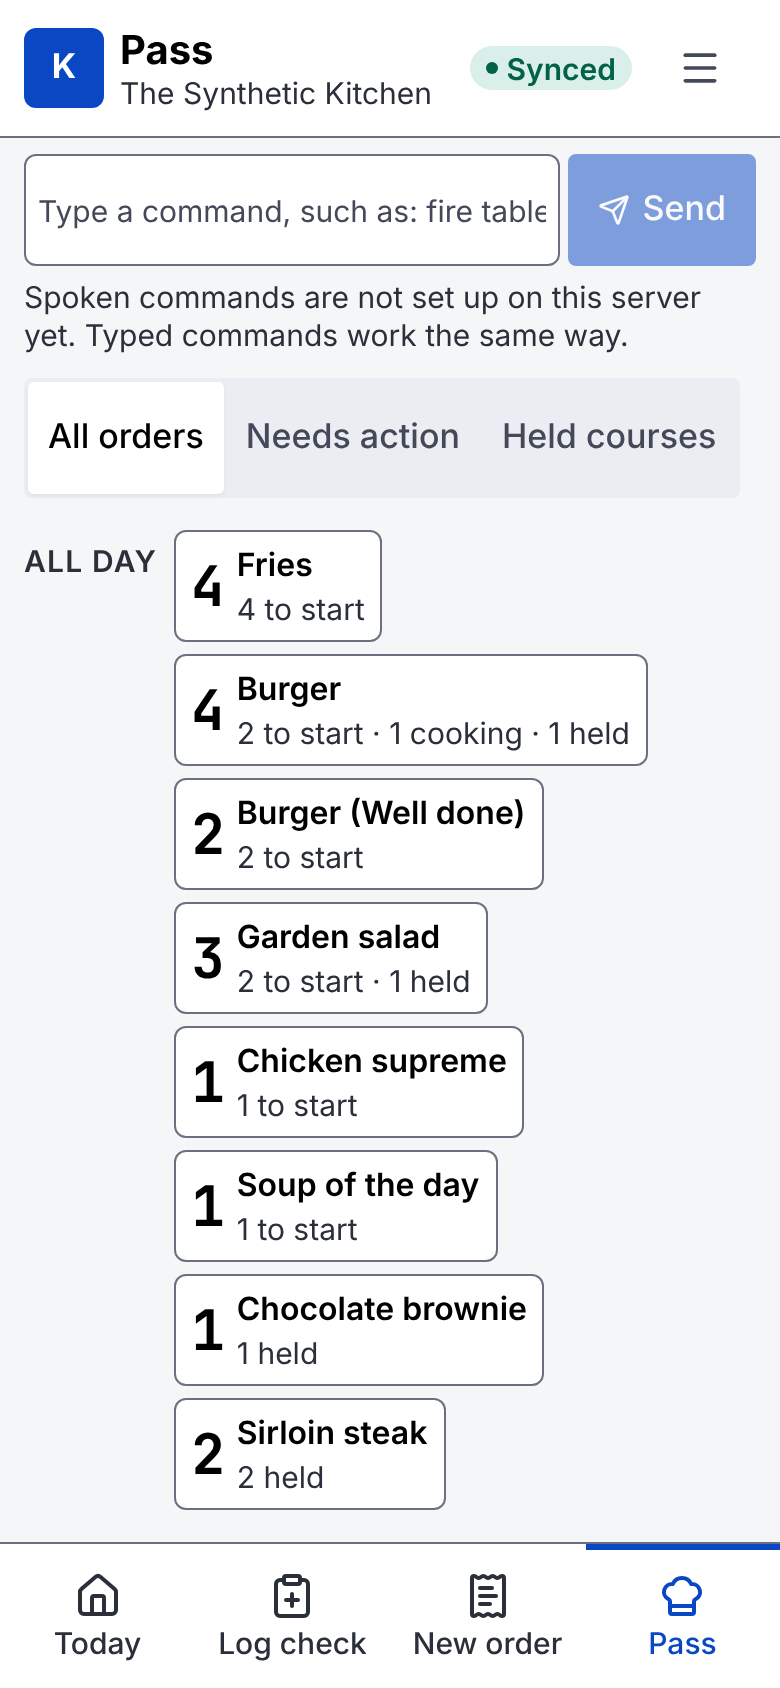
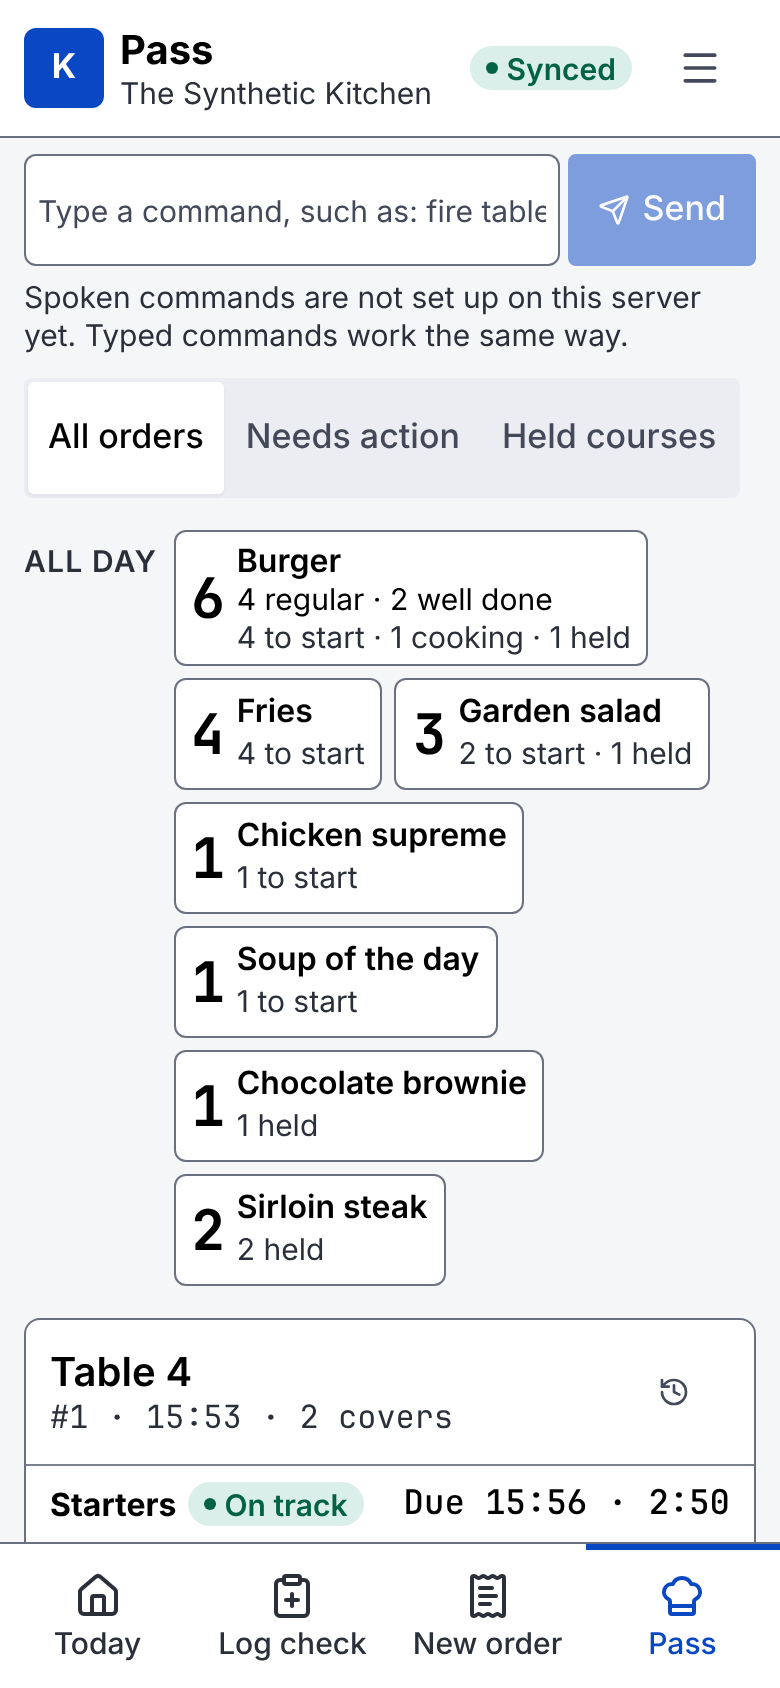
All day: one count per dish, with its variations underneath
The all-day strip now counts each dish once ("5 Burger") and lists its
variations in smaller writing below ("3 regular · 1 well done · 1 well
done, no onion"), then where they are ("2 to start · 3 cooking"). An
item with a note counts as its own variation. Tapping a dish shows every
ticket with it, whatever the variation. "Start N" names the variation
the scheduler wants started together ("Start 3 regular").

Claude-Session: https://claude.ai/code/session_01XnYPVejnixURvd7u6s4zNh

diff --git a/frontend/src/lib/tickets.ts b/frontend/src/lib/tickets.ts
@@ -79,8 +79,18 @@ export function stationTickets(view: KitchenView, stationId: string): Ticket[] {
   return out.sort((a, b) => a.nextAt - b.nextAt || a.order.number - b.order.number);
 }
 
-/** AllDay is how many of one dish (with its modifiers) are in the kitchen. */
+/** Variant is one way a dish is ordered: "regular", "well done", "well done, no onion". */
+export interface Variant {
+  label: string;
+  /** fired and not yet ready */
+  active: number;
+  held: number;
+  ready: number;
+}
+
+/** AllDay is how many of one dish are in the kitchen, with its variants. */
 export interface AllDay {
+  /** the dish ID */
   key: string;
   name: string;
   /** held: in courses not fired yet */
@@ -91,8 +101,19 @@ export interface AllDay {
   cooking: number;
   /** at the pass */
   ready: number;
-  /** items the scheduler says to start now, together */
+  /** items the scheduler says to start now */
   startNow: string[];
+  /** the variant those items share, or "" when they differ */
+  startNowVariant: string;
+  /** the ways it is ordered, regular first, then the most common */
+  variants: Variant[];
+}
+
+/** variantLabel names how an item differs from the plain dish. */
+export function variantLabel(it: Pick<OrderItem, "modifiers" | "notes">): string {
+  const parts = [...(it.modifiers ?? []).map((m) => m.toLowerCase())];
+  if (it.notes?.trim()) parts.push(it.notes.trim());
+  return parts.length ? parts.join(", ") : "regular";
 }
 
 /** allDay counts every dish not yet served, for one station or the whole kitchen. */
@@ -107,18 +128,37 @@ export function allDay(view: KitchenView, stationId?: string): AllDay[] {
     for (const it of o.items) {
       if (stationId && it.station_id !== stationId) continue;
       if (it.state === "served" || it.state === "voided") continue;
-      const key = `${it.dish_id}|${(it.modifiers ?? []).join(",")}`;
-      let r = rows.get(key);
+      let r = rows.get(it.dish_id);
       if (!r) {
-        r = { key, name: itemName(it), held: 0, toStart: 0, cooking: 0, ready: 0, startNow: [] };
-        rows.set(key, r);
+        r = { key: it.dish_id, name: it.dish_name, held: 0, toStart: 0, cooking: 0, ready: 0, startNow: [], startNowVariant: "", variants: [] };
+        rows.set(it.dish_id, r);
       }
-      if (it.state === "held") r.held++;
-      else if (it.state === "fired") r.toStart++;
-      else if (COOKING.has(it.state)) r.cooking++;
-      else if (it.state === "ready") r.ready++;
-      if (now.has(it.id)) r.startNow.push(it.id);
+      const label = variantLabel(it);
+      let v = r.variants.find((x) => x.label === label);
+      if (!v) {
+        v = { label, active: 0, held: 0, ready: 0 };
+        r.variants.push(v);
+      }
+      if (it.state === "held") {
+        r.held++;
+        v.held++;
+      } else if (it.state === "ready") {
+        r.ready++;
+        v.ready++;
+      } else {
+        if (it.state === "fired") r.toStart++;
+        else if (COOKING.has(it.state)) r.cooking++;
+        v.active++;
+      }
+      if (now.has(it.id)) {
+        r.startNowVariant = r.startNow.length === 0 || r.startNowVariant === label ? label : "";
+        r.startNow.push(it.id);
+      }
     }
+  }
+  for (const r of rows.values()) {
+    const n = (v: Variant) => v.active + v.held + v.ready;
+    r.variants.sort((a, b) => (a.label === "regular" ? -1 : b.label === "regular" ? 1 : n(b) - n(a) || a.label.localeCompare(b.label)));
   }
   return [...rows.values()].sort((a, b) => active(b) - active(a) || a.name.localeCompare(b.name));
 }
@@ -128,9 +168,9 @@ export function active(r: AllDay): number {
   return r.toStart + r.cooking;
 }
 
-/** lineKey is the all-day key of an item, to filter tickets by dish. */
-export function lineKey(it: OrderItem): string {
-  return `${it.dish_id}|${(it.modifiers ?? []).join(",")}`;
+/** lineKey is the all-day key of an item (its dish), to filter tickets by dish. */
+export function lineKey(it: Pick<OrderItem, "dish_id">): string {
+  return it.dish_id;
 }
 
 /** Done is an item a station finished recently, for Undo. */

diff --git a/frontend/src/components/AllDayStrip.svelte b/frontend/src/components/AllDayStrip.svelte
@@ -17,6 +17,15 @@
 
   const shown = $derived(rows.filter((r) => active(r) + r.ready + (showHeld ? r.held : 0) > 0));
 
+  /** variants says how the dish is ordered, counted the same way as the big number. */
+  function variants(r: AllDay): string {
+    const useActive = active(r) > 0 || (showHeld && r.held > 0);
+    const n = (v: AllDay["variants"][number]) => (useActive ? v.active + (showHeld ? v.held : 0) : v.ready);
+    const shown = r.variants.filter((v) => n(v) > 0);
+    if (shown.length < 2 && shown[0]?.label === "regular") return "";
+    return shown.map((v) => `${n(v)} ${v.label}`).join(" · ");
+  }
+
   function parts(r: AllDay): string {
     const p: string[] = [];
     if (r.toStart) p.push(`${r.toStart} to start`);
@@ -42,10 +51,11 @@
           >
             <span class="count num">{active(r) + (showHeld ? r.held : 0) || r.ready}</span>
             <span class="name">{r.name}</span>
+            {#if variants(r)}<span class="variants">{variants(r)}</span>{/if}
             <span class="parts">{parts(r)}</span>
           </button>
           {#if onstart && r.startNow.length > 1}
-            <Button tone="success" surface="solid" label={`Start ${r.startNow.length}`} disabled={busy} onclick={() => onstart(r)} />
+            <Button tone="success" surface="solid" label={`Start ${r.startNow.length}${r.startNowVariant && r.variants.length > 1 ? ` ${r.startNowVariant}` : ""}`} disabled={busy} onclick={() => onstart(r)} />
           {/if}
         </div>
       {/each}
@@ -81,7 +91,7 @@
   .pick {
     display: grid;
     grid-template-columns: auto 1fr;
-    grid-template-rows: auto auto;
+    grid-template-rows: auto;
     column-gap: var(--space-3);
     align-items: center;
     min-height: max(44px, var(--kit-control-height, 0px));
@@ -99,14 +109,21 @@
     box-shadow: inset 0 0 0 1px var(--accent-blue);
   }
   .count {
-    grid-row: span 2;
+    grid-row: 1 / span 3;
     font-size: var(--font-size-2xl);
     font-weight: var(--font-weight-bold);
   }
   .name {
+    grid-column: 2;
     font-weight: var(--font-weight-semibold);
   }
+  .variants {
+    grid-column: 2;
+    font-size: var(--font-size-sm);
+    color: var(--text-primary);
+  }
   .parts {
+    grid-column: 2;
     font-size: var(--font-size-sm);
     color: var(--text-secondary);
   }

diff --git a/frontend/src/lib/tickets.test.ts b/frontend/src/lib/tickets.test.ts
@@ -1,6 +1,6 @@
 import { expect, test } from "bun:test";
 import type { KitchenView } from "./api";
-import { active, allDay, lineKey, recentlyDone, stationTickets, stepBack } from "./tickets";
+import { active, allDay, lineKey, recentlyDone, stationTickets, stepBack, variantLabel } from "./tickets";
 
 const MIN = 60e9; // a minute in nanoseconds, as timings arrive
 
@@ -76,15 +76,25 @@ test("station tickets: one per fired course with work, soonest first", () => {
   expect(stationTickets(view, "fryer").map((x) => x.order.table)).toEqual(["4"]);
 });
 
-test("all day counts dishes by state, with what to start now", () => {
+test("all day counts each dish once, with its variants", () => {
   const rows = allDay(view, "grill");
-  expect(rows.map((r) => r.name)).toEqual(["Burger", "Burger (Well done)"]);
-  expect(rows[0]).toMatchObject({ held: 1, toStart: 1, cooking: 1, ready: 1, startNow: ["a"] });
-  expect(rows[1]).toMatchObject({ toStart: 1, ready: 0, startNow: [] });
-  expect(active(rows[0]!)).toBe(2);
+  expect(rows.map((r) => r.name)).toEqual(["Burger"]);
+  expect(rows[0]).toMatchObject({ key: "d-burger", held: 1, toStart: 2, cooking: 1, ready: 1, startNow: ["a"], startNowVariant: "regular" });
+  expect(active(rows[0]!)).toBe(3);
+  expect(rows[0]!.variants).toEqual([
+    { label: "regular", active: 2, held: 1, ready: 1 },
+    { label: "well done", active: 1, held: 0, ready: 0 },
+  ]);
   const kitchen = allDay(view);
   expect(kitchen.map((r) => r.name)).toContain("Fries");
-  expect(lineKey(view.orders[1]!.items[0]!)).toBe("d-burger|Well done");
+  expect(lineKey(view.orders[1]!.items[0]!)).toBe("d-burger");
+});
+
+test("variant labels", () => {
+  expect(variantLabel({ modifiers: [], notes: "" })).toBe("regular");
+  expect(variantLabel({ modifiers: ["Well done"] })).toBe("well done");
+  expect(variantLabel({ modifiers: ["Well done"], notes: "no onion" })).toBe("well done, no onion");
+  expect(variantLabel({ modifiers: [], notes: "no bun, gluten free" })).toBe("no bun, gluten free");
 });
 
 test("recently done and undo", () => {

diff --git a/docs/screens.md b/docs/screens.md
@@ -55,7 +55,7 @@ How the kitchen side works, and how the scheduler decides, is in [kitchen.md](ki
 Every open order as a card, for the head chef or expo:
 
 - **Figures**: open orders, and how many fired courses are on track, at risk, late, or ready to serve, and how many courses are held.
-- **All day**: every dish not yet served, across the kitchen: to start, cooking, ready and held. Tap a dish to show only the orders with it.
+- **All day**: every dish not yet served, across the kitchen, with its variations (regular, well done, notes) and how many are to start, cooking, ready and held. Tap a dish to show only the orders with it.
 - **Show**: all orders, only those that need action (at risk, late or ready), or those with held courses.
 - Each card's heading is the order's name if it has one (with the table or takeaway number under it), otherwise its table or takeaway number. It shows the ticket number, time entered, covers, notes, a **Square** chip for orders from the till, and an **Allergy** chip and red edge when flagged. Each course shows its state and the scheduler's status (on track, at risk, late, ready) with the reason, the target time with a countdown, and its items grouped as "2× Burger (Well done)" with their state.
 - Head chefs and managers get the buttons: **Fire** a held course; **Serve** a course once every item is ready; **Change time** (a new target, with a reason for the log); **Hold again** on a fired course while nothing in it has started; **Mark ready** once every item in a course has been started, when the plates are at the pass; **Urgent**; and **Close order** once everything is served or voided. Other staff see the same cards without buttons.
@@ -65,7 +65,7 @@ Every open order as a card, for the head chef or expo:
 
 Pick a station. Its screen has three parts:
 
-- **All day**: how many of each dish the station has in hand, such as "3 Burger: 2 to start, 1 cooking". Tap a dish to show only the tickets with it (and again to show them all). When the scheduler says to start several of a dish together, for different tables, **Start 3** starts them in one tap.
+- **All day**: how many of each dish the station has in hand, counted once per dish, with its variations in small writing underneath and where they are: "5 Burger · 3 regular · 1 well done · 1 well done, no onion · 2 to start, 3 cooking". An item with a note counts as its own variation. Tap a dish to show only the tickets with it (and again to show them all). When the scheduler says to start several together, for different tables, **Start 3 regular** starts them in one tap.
 - **Tickets**: one per order and course with work for this station, the one that needs a hand soonest first. The heading is the order's name, or its table or takeaway number, with the course, the time since it was fired, and its status (on track, at risk, late) as a coloured top edge and a chip. Each item is its own line with its own button: **Start**, **Done cooking**, **Done resting** or **Ready**. A line says **Start now**, **Start 18:42**, or how long is left on what it is doing (red once overdue). The i button shows why the scheduler chose that time. Items already ready are struck through until the whole ticket is done. Allergies show in red at the top.
 - **Recently done**: items made ready here in the last 15 minutes, with **Undo** to put one back a step.
 
